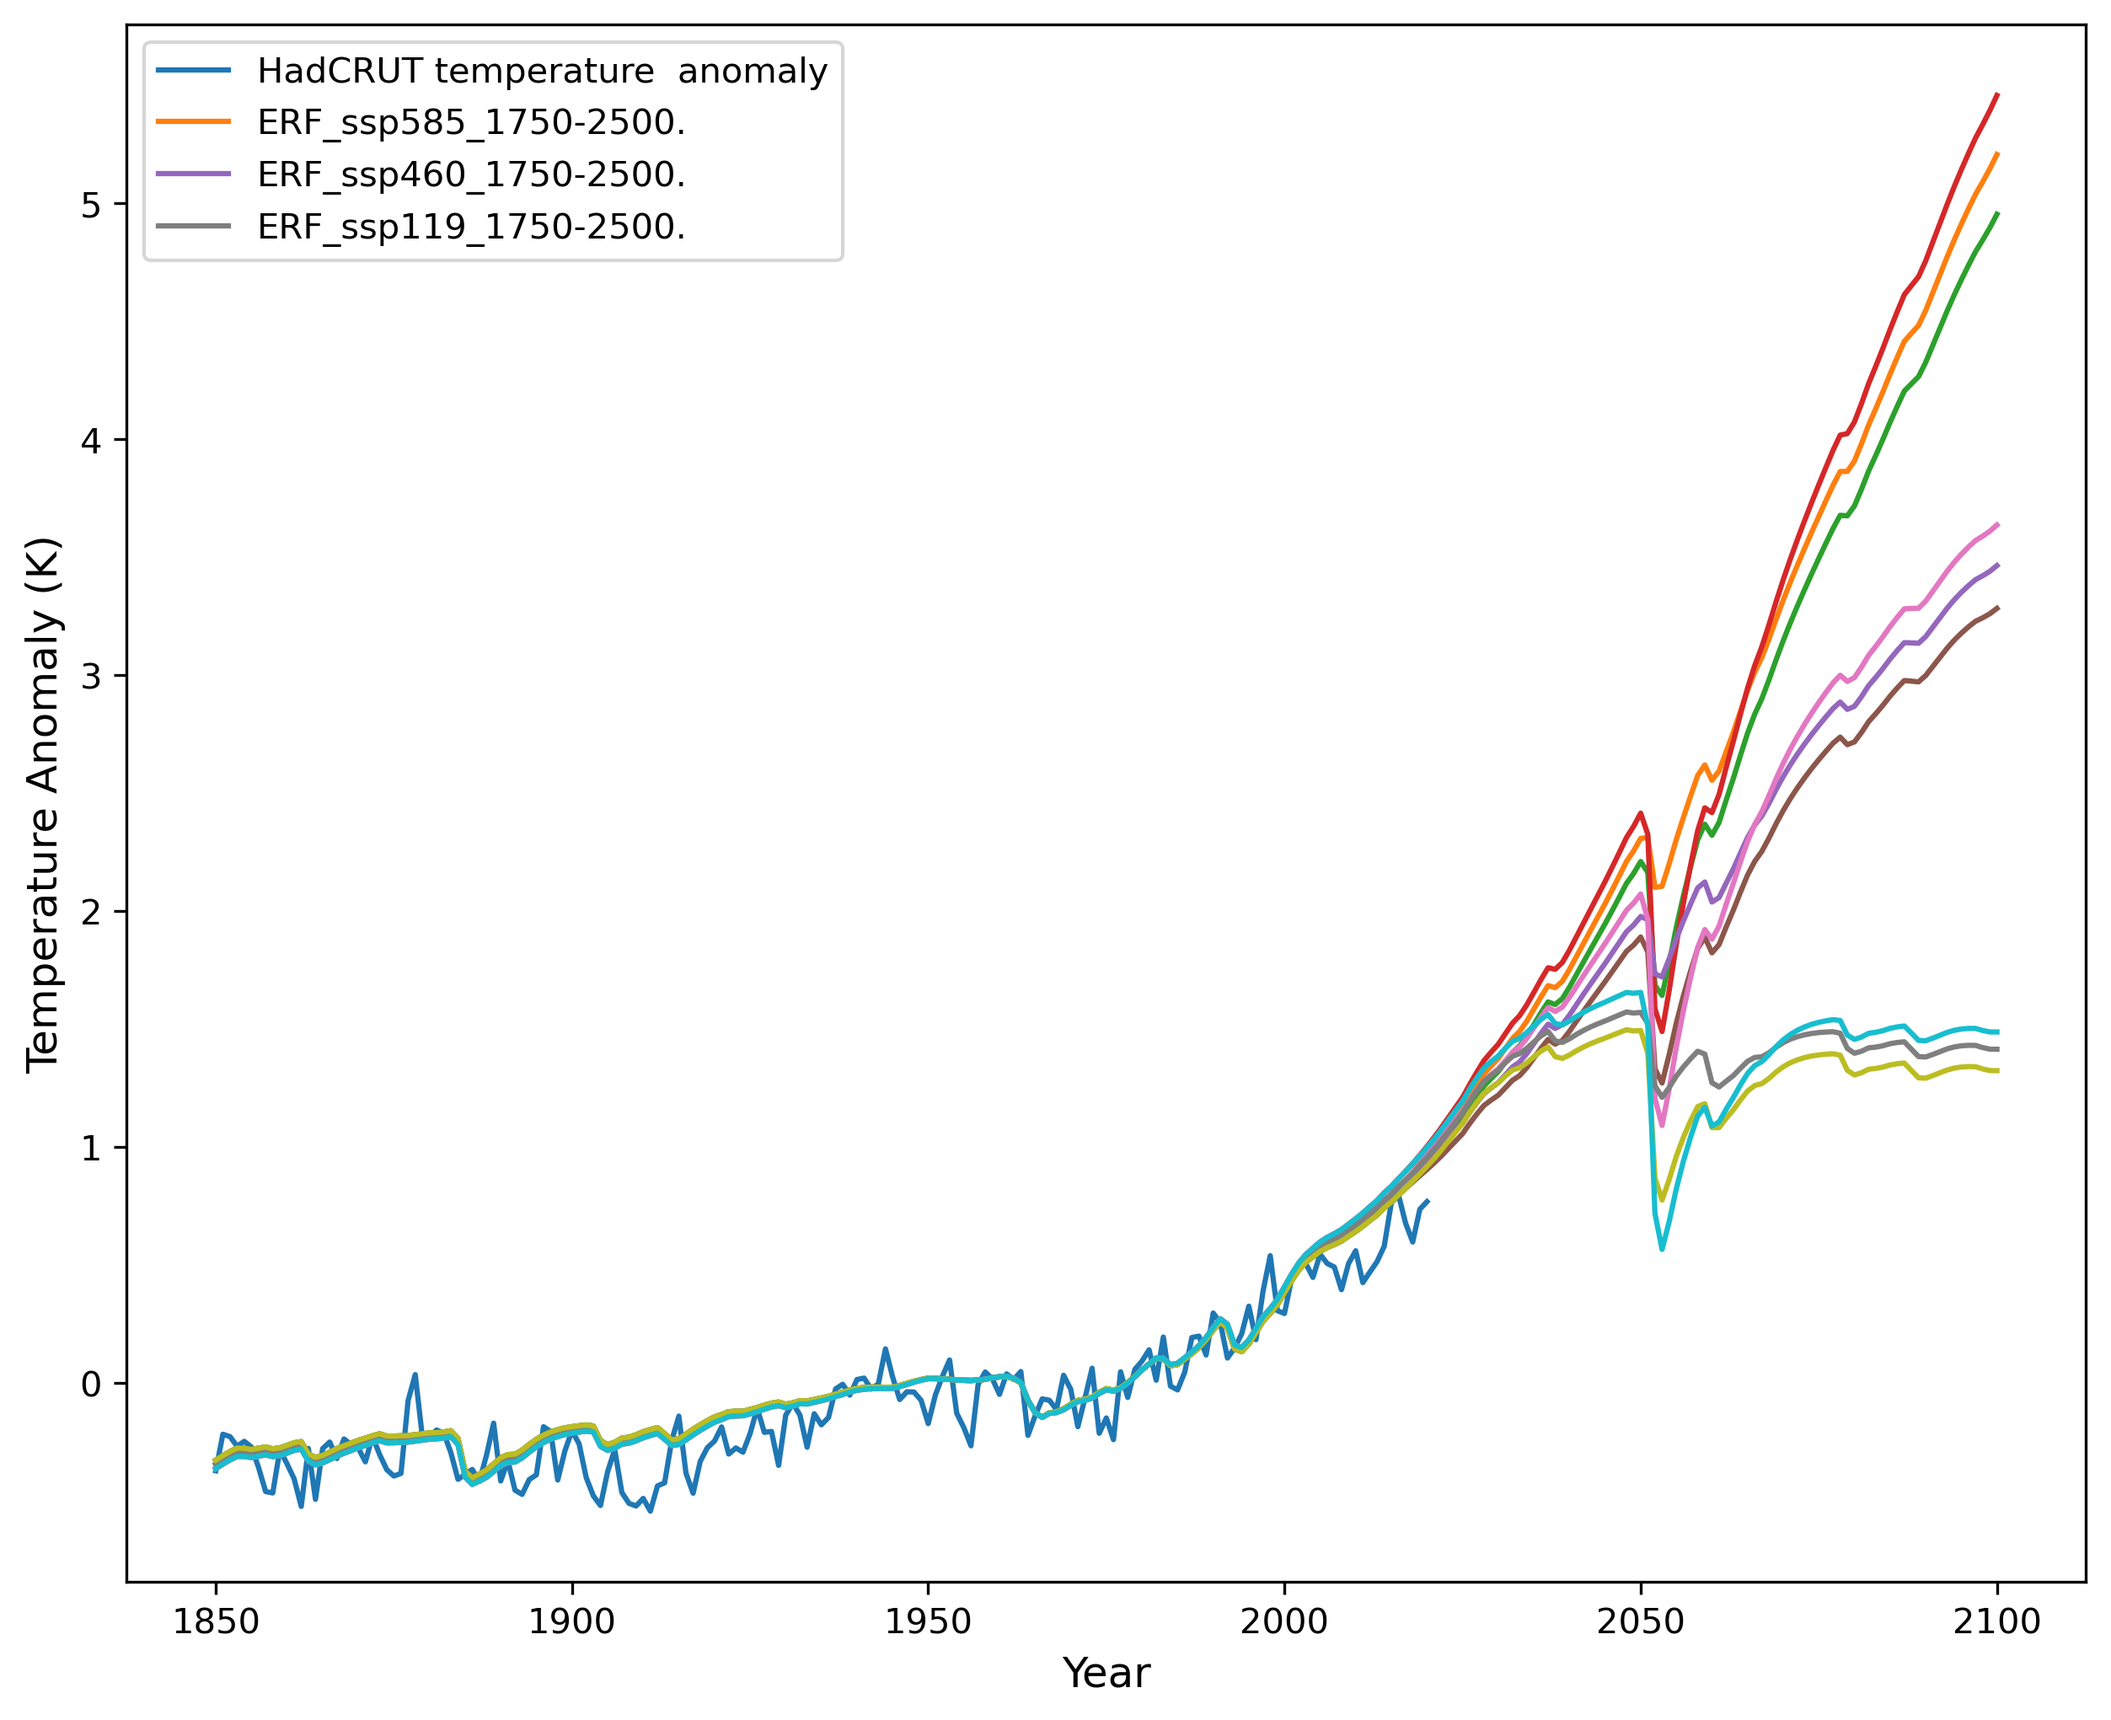
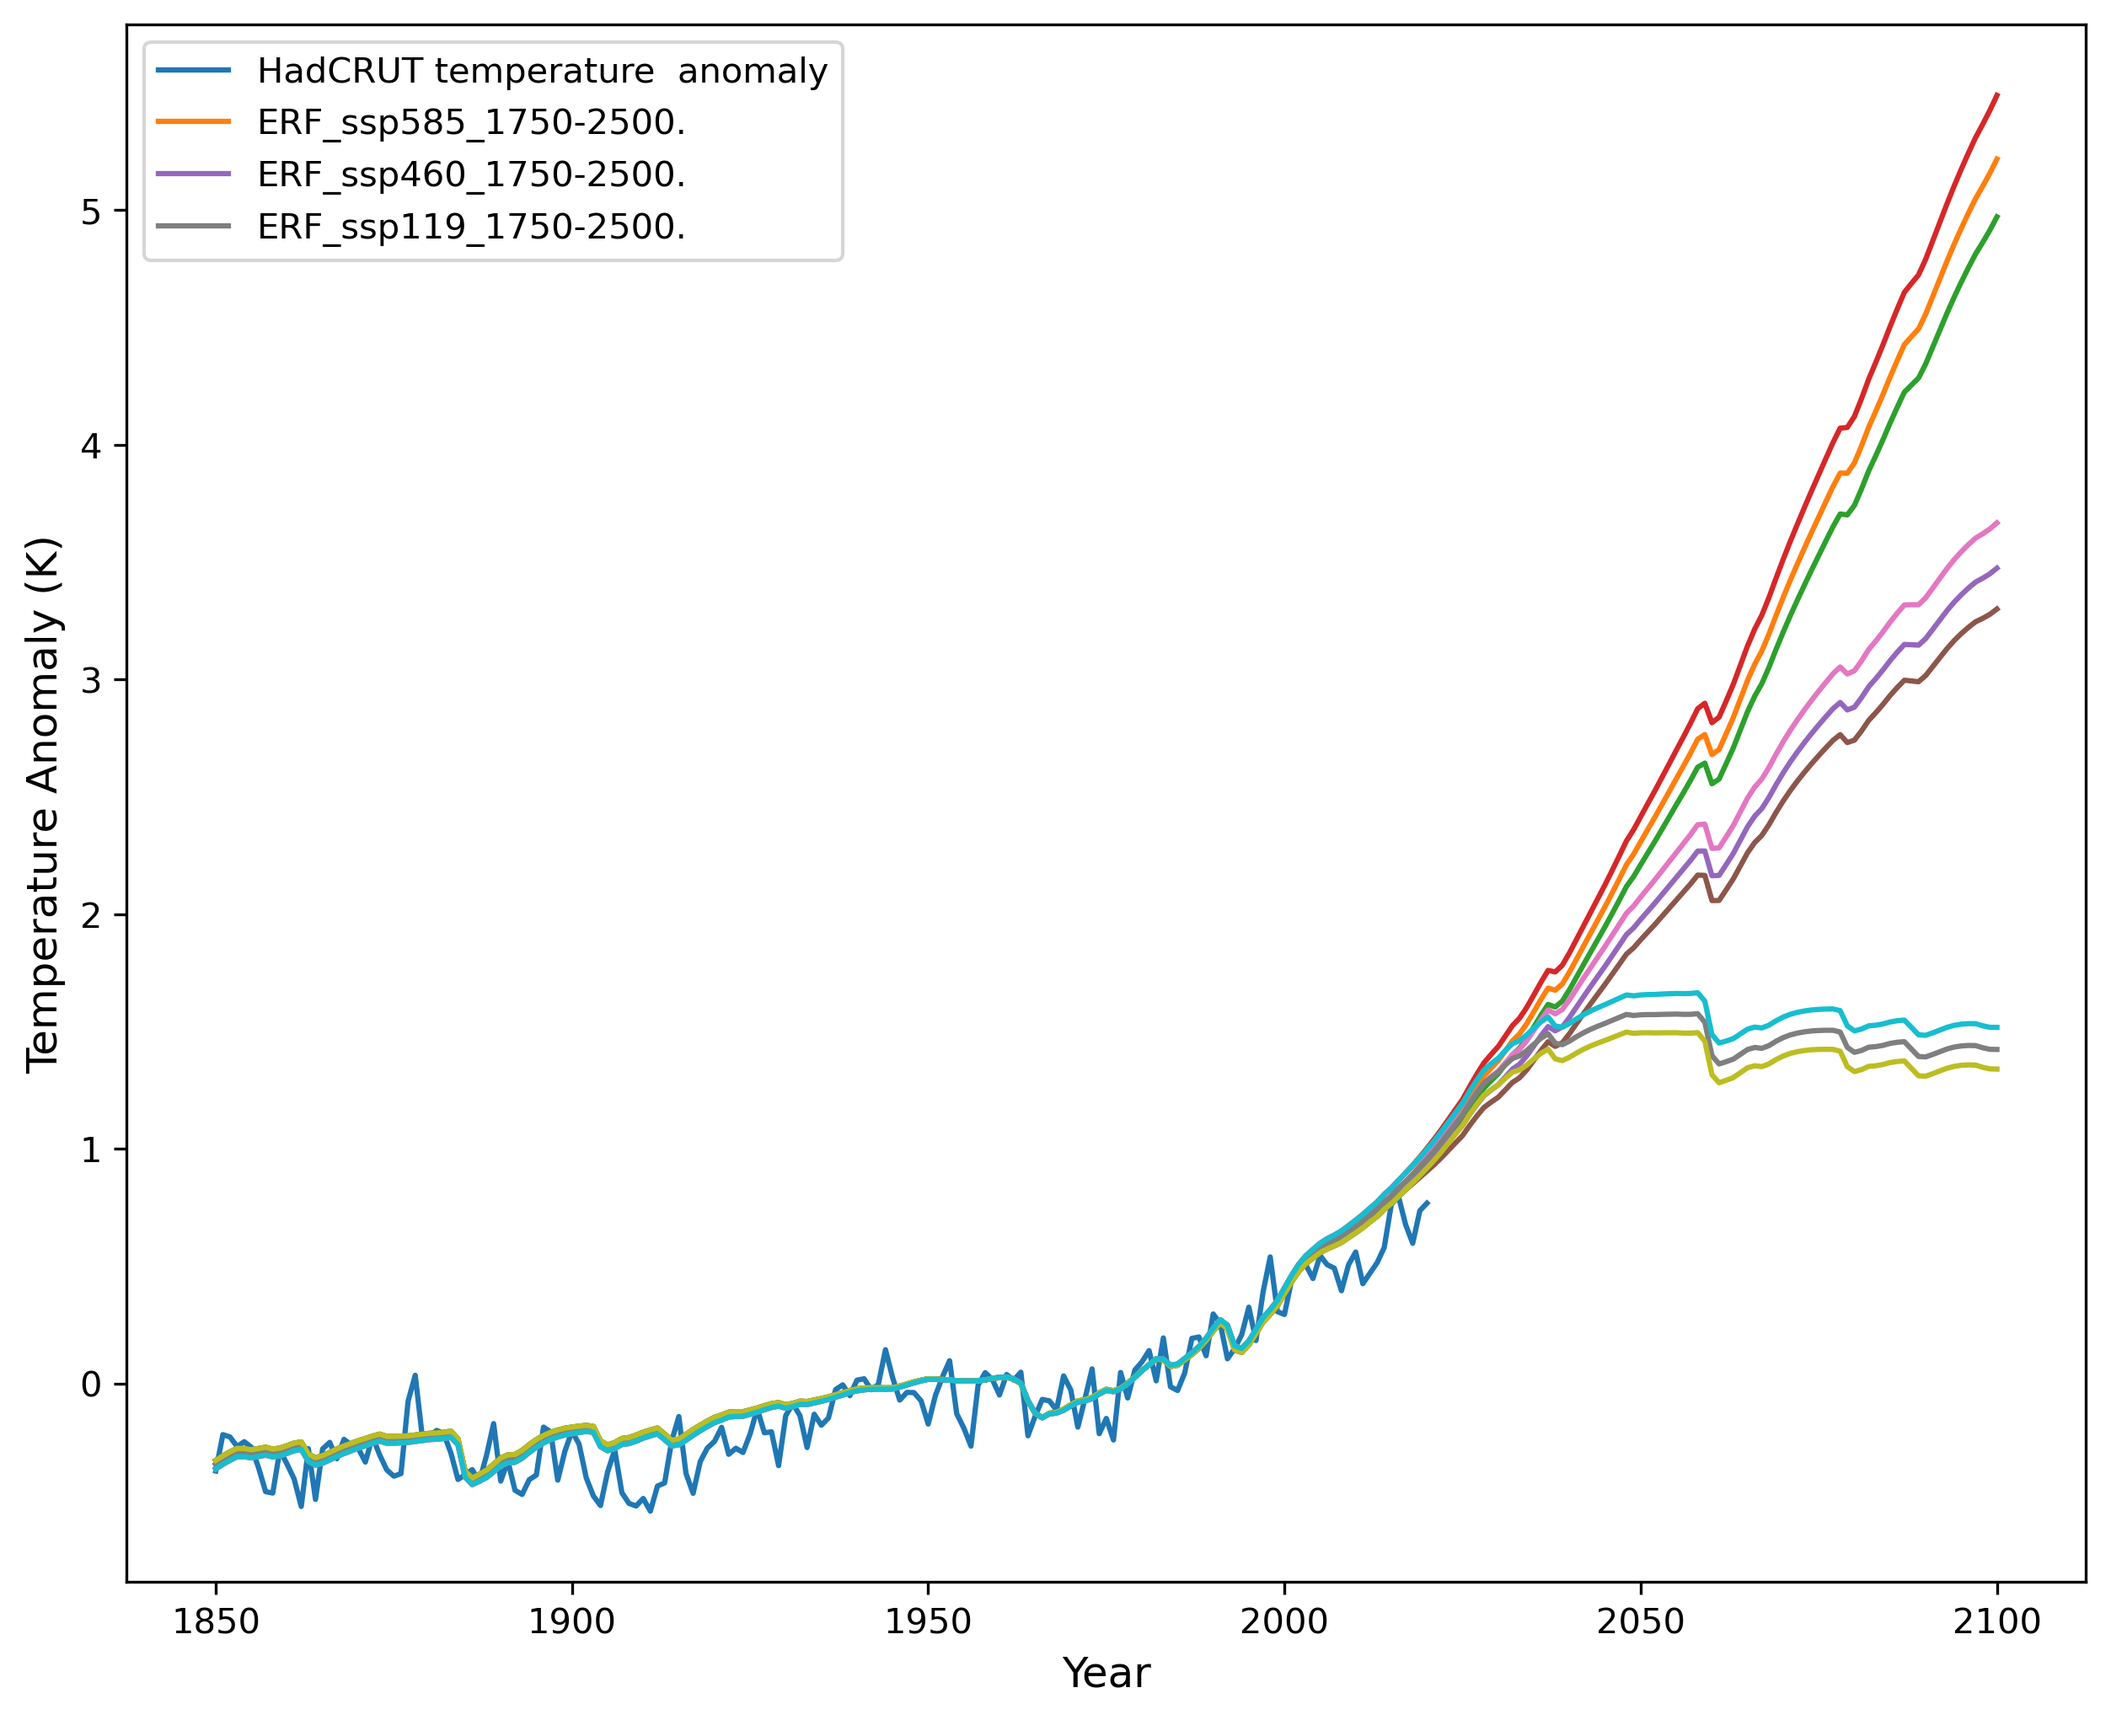
have experiments run on load

diff --git a/experiments.py b/experiments.py
@@ -62,7 +62,7 @@ def calc_confidence_interval(data):
     return upper_conf_int, lower_conf_int
 
 
-def main():
+def main(krakatwoa=False, save_filename='outputs/upper_ocean_projection_volcanic.png'):
     # array for time, in years and seconds
     t = np.array(range(0,171), dtype='int64')
     years = t + 1850
@@ -93,16 +93,18 @@ def main():
         ERF, ERF_fut = load_forcing_data(forcing_scenario_path)
 
         alpha_val, alpha_stderr = model.get_opt_model(temp_anom=temp_anom, F=ERF)
-        projection = model.upper_ocean_temp(t=len(ERF_fut), alpha=alpha_val, F=ERF_fut)
-        proj_upper = model.upper_ocean_temp(t=len(ERF_fut), alpha=alpha_val+1.96*0.048, F=ERF_fut)
-        proj_lower = model.upper_ocean_temp(t=len(ERF_fut), alpha=alpha_val-1.96*0.048, F=ERF_fut)
+        projection = model.upper_ocean_temp(t=len(ERF_fut), alpha=alpha_val, F=ERF_fut, krakatwoa=krakatwoa)
+        proj_upper = model.upper_ocean_temp(t=len(ERF_fut), alpha=alpha_val+1.96*0.048, F=ERF_fut, krakatwoa=krakatwoa)
+        proj_lower = model.upper_ocean_temp(t=len(ERF_fut), alpha=alpha_val-1.96*0.048, F=ERF_fut, krakatwoa=krakatwoa)
 
         ## plot and save ouputs
         fig, ax = plot_model(years_fut, projection, label='%s' % (scen_file[:-3]), fig=fig, ax=ax)
         fig, ax = plot_model(years_fut, proj_upper, label=None, fig=fig, ax=ax)
         fig, ax = plot_model(years_fut, proj_lower, label=None, fig=fig, ax=ax)
-    fig.savefig('outputs/upper_ocean_projection_volcanic.png', bbox_inches='tight', dpi=300)
+    fig.savefig(save_filename, bbox_inches='tight', dpi=300)
+    plt.close()
 
 
 if __name__ == '__main__':
     main()
+    main(krakatwoa=True, save_filename='outputs/upper_ocean_projection_volcanic_krakatwoa.png')

diff --git a/scripts/model.py b/scripts/model.py
@@ -37,21 +37,21 @@ dt = 365*24*60*60 # seconds in year
 # where lambda1,2 are found using quadratic formula from homogenous 2nd order ODE solution, and
 # A and B are constants, where A + B = -F/alpha (from inhomogenous solution)
 
-def upper_ocean_temp(t, alpha, F=None):
+def upper_ocean_temp(t, alpha, F=None, krakatwoa=False):
     if type(F) != np.array and type(F) != np.ndarray:
         F = ERF
     T_u = np.zeros(t)
     T_d = np.zeros(t)
-
     for i in range(t-1):
-        if i == 200:
-            F[i] += (KRAK_VALS[KRAKATOA_YEAR] * 2)
-        if i == 201:
-            F[i] += (KRAK_VALS[KRAKATOA_YEAR+1] * 2)
-        if i == 202:
-            F[i] += (KRAK_VALS[KRAKATOA_YEAR+2] * 2)
-        if i == 203:
-            F[i] += (KRAK_VALS[KRAKATOA_YEAR+3] * 2)
+        if krakatwoa:
+            if i == 200:
+                F[i] += (KRAK_VALS[KRAKATOA_YEAR] * 2)
+            if i == 201:
+                F[i] += (KRAK_VALS[KRAKATOA_YEAR+1] * 2)
+            if i == 202:
+                F[i] += (KRAK_VALS[KRAKATOA_YEAR+2] * 2)
+            if i == 203:
+                F[i] += (KRAK_VALS[KRAKATOA_YEAR+3] * 2)
         T_u[i+1] = (1/C_u)*(F[i] - (alpha+gamma)*T_u[i] + T_d[i])*dt + T_u[i]
         T_d[i+1] = (gamma/C_d)*(T_u[i]-T_d[i])*dt + T_d[i]
     T_u = T_u - np.mean(T_u[start_point:end_point])
